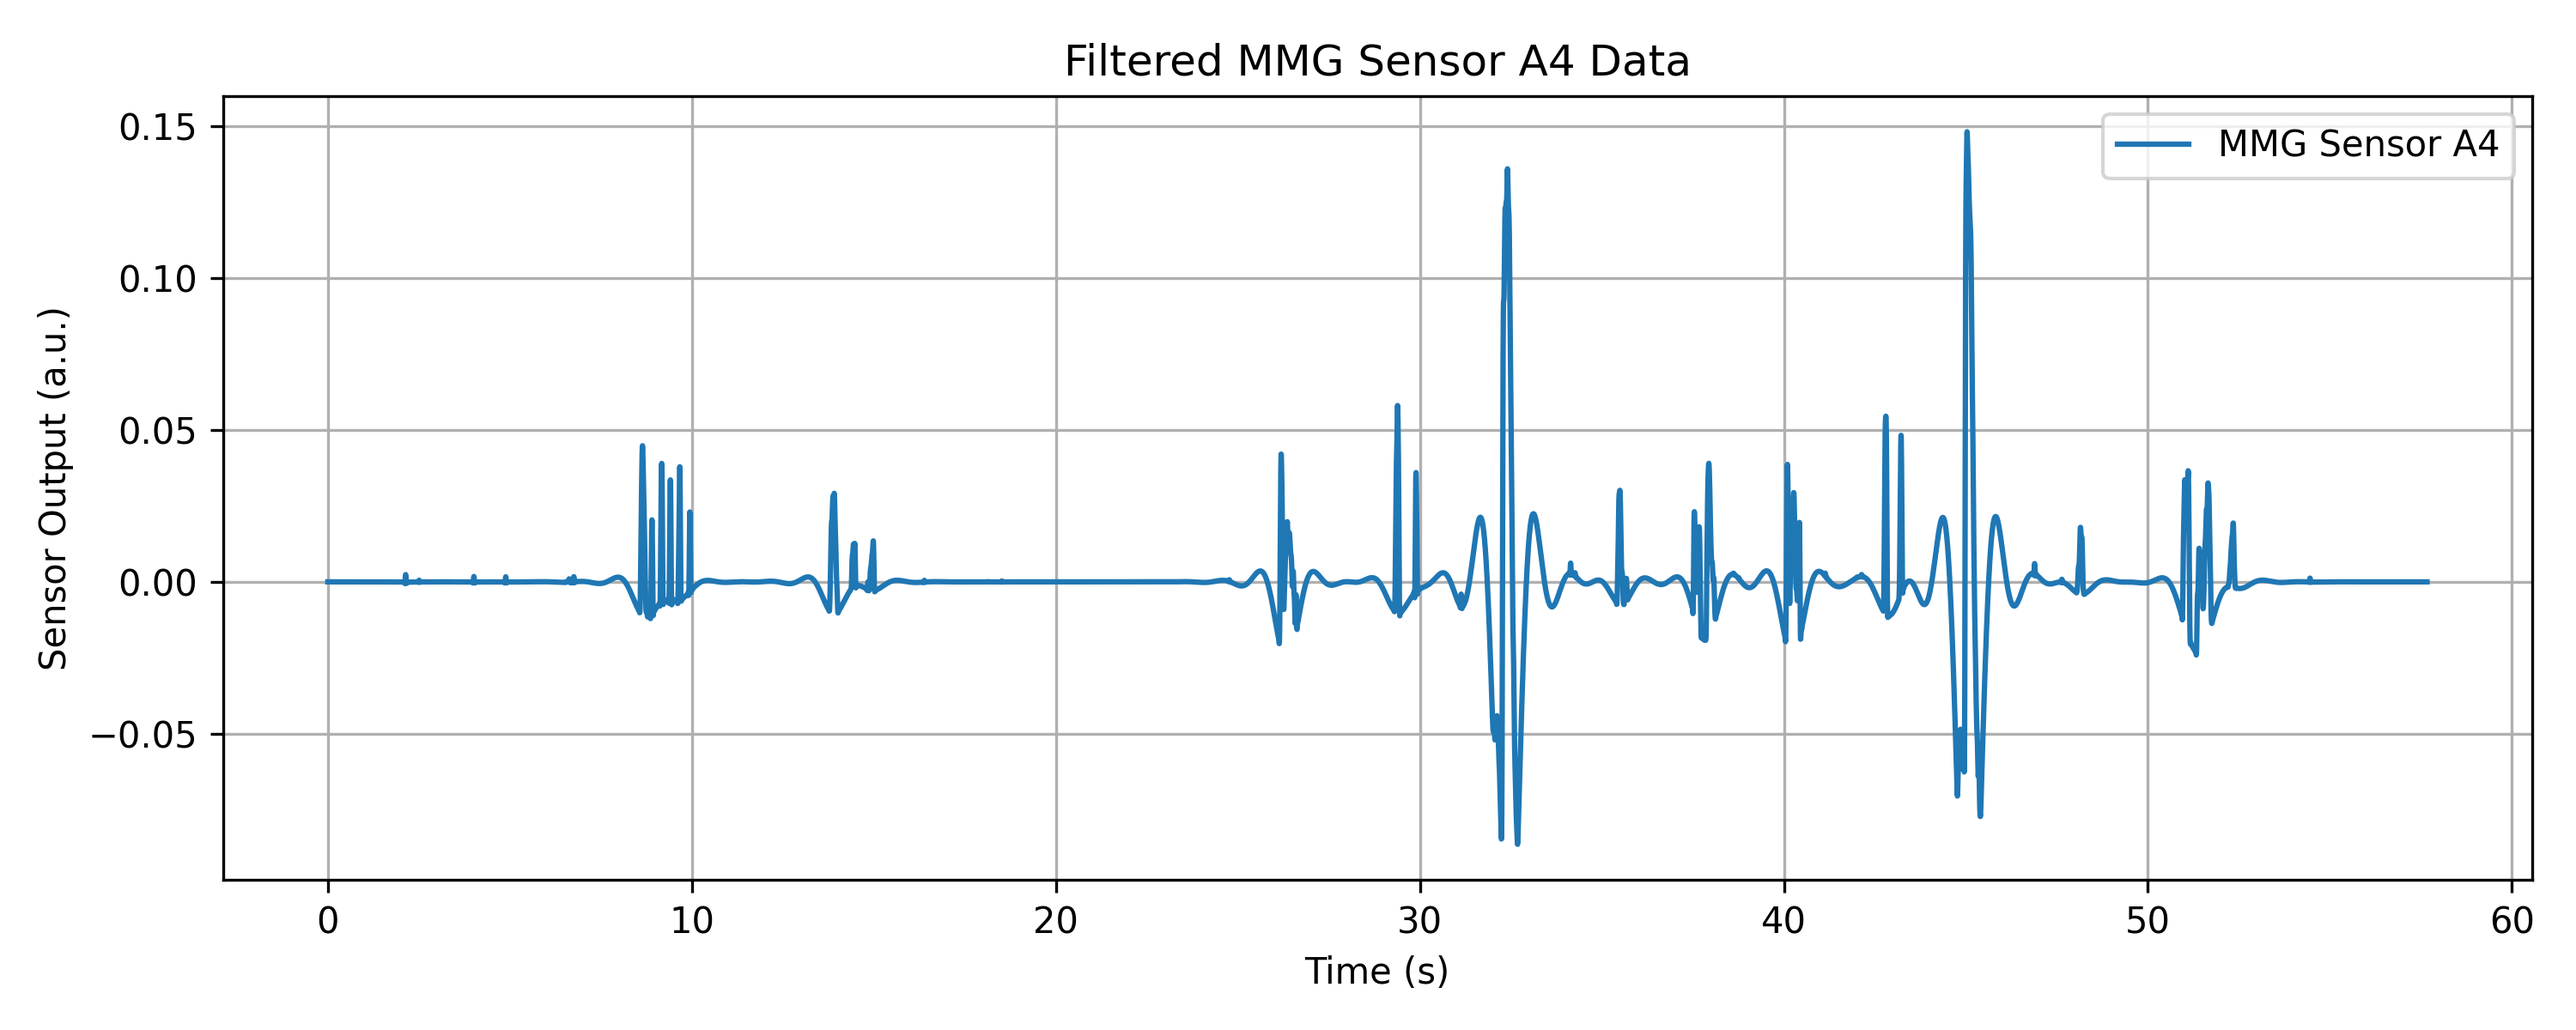
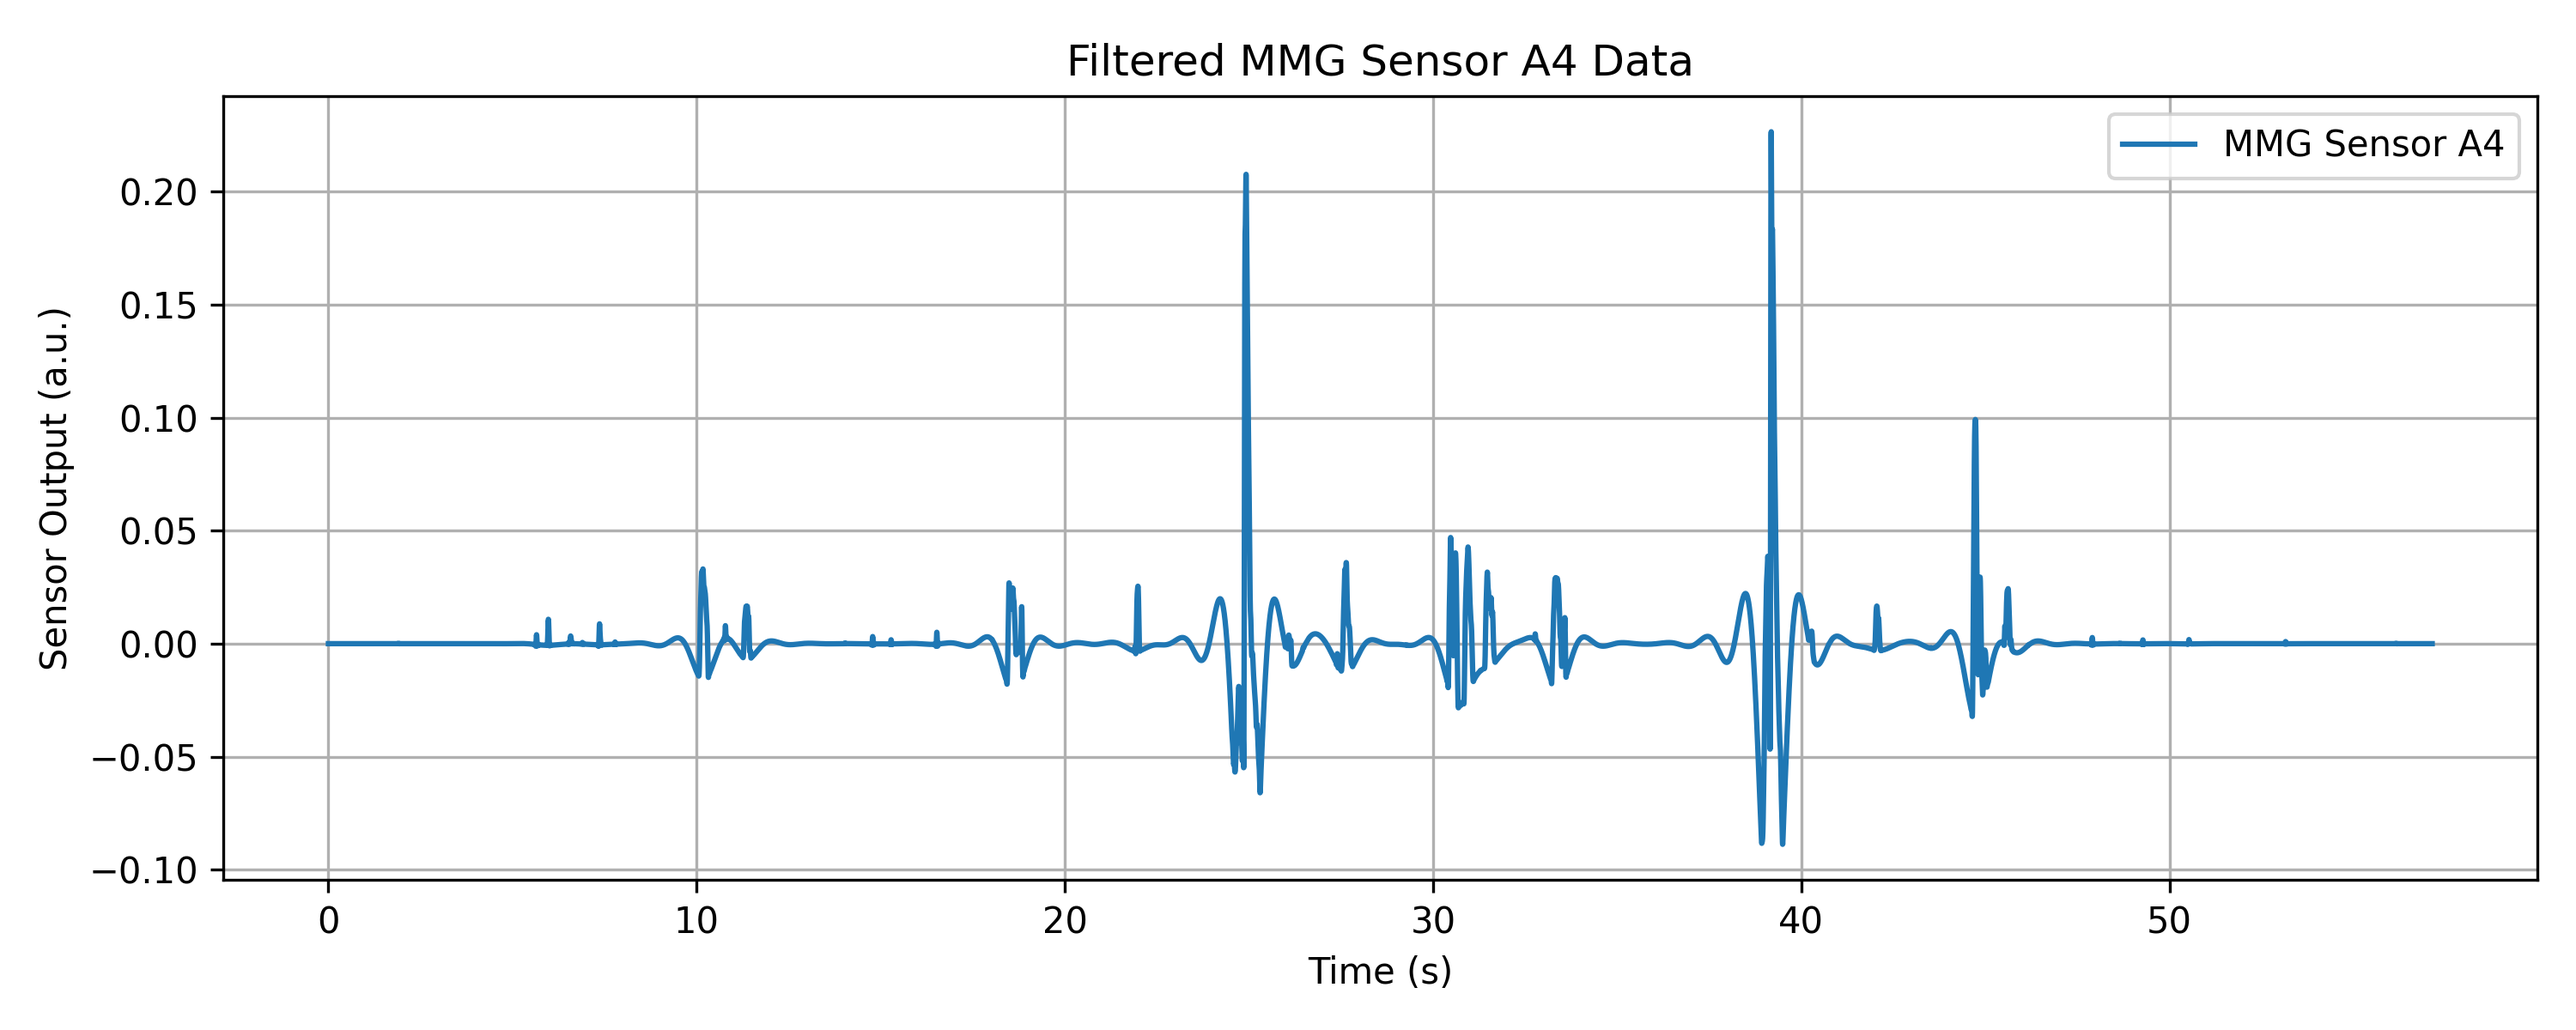
update head movement

diff --git a/Data_visualization/head_movement.py b/Data_visualization/head_movement.py
@@ -22,40 +22,63 @@ def detect_head_movement(gesture_window_data):
     pitch_data = gesture_window_data["pitch"]
     yaw_data = gesture_window_data["yaw"]
 
+    # Initialize crossing variables
+    pitch_cross_low = []
+    pitch_cross_high = []
+    yaw_cross_low = []
+    yaw_cross_high = []
+
     # 1. Detect Front Head Movement
     if np.all(roll_data < 0.1) and np.all(pitch_data < 0.2) and np.all(yaw_data < 0.1):
         return 0  # Front
 
     # 2. Detect Left Head Movement
-    if np.any(roll_data >= 0.03):  # Roll condition
+    elif np.any(roll_data >= 0.025):  # Roll condition
         # Check the pitch condition
-        pitch_cross_low = np.where(pitch_data <= -0.4)[0]  # Indices where pitch is <= -0.4
+        pitch_cross_low = np.where(pitch_data <= -0.2)[0]  # Indices where pitch is <= -0.2
+        yaw_cross_high = np.where(yaw_data >= 0.08)[0]      # Indices where yaw is >= 0.08
+
         if len(pitch_cross_low) > 0:
-            pitch_cross_high = np.where(pitch_data[pitch_cross_low[0]:] >= 0.4)[0]  # After low, check for high
+            # Check if pitch goes back up after going low
+            pitch_cross_high = np.where(pitch_data[pitch_cross_low[0]:] >= 0.2)[0]
             if len(pitch_cross_high) > 0:
-                # Check the yaw condition
-                yaw_cross_high = np.where(yaw_data >= 0.1)[0]  # Indices where yaw is >= 0.1
-                if len(yaw_cross_high) > 0:
-                    yaw_cross_low = np.where(yaw_data[yaw_cross_high[0]:] <= -0.1)[0]  # After high, check for low
-                    if len(yaw_cross_low) > 0:
-                        return 1  # Left
+                return 1  # Left, Roll + Pitch conditions met
+
+        if len(yaw_cross_high) > 0:
+            # Check if yaw goes back down after going high
+            yaw_cross_low = np.where(yaw_data[yaw_cross_high[0]:] <= -0.08)[0]
+            if len(yaw_cross_low) > 0:
+                return 1  # Left, Roll + Yaw conditions met
+
+    # Check if two out of (pitch and yaw) are met, without requiring roll
+    if len(pitch_cross_low) > 0 and len(yaw_cross_high) > 0:
+        return 1  # Left, Pitch + Yaw conditions met
 
     # 3. Detect Right Head Movement
-    if np.any(roll_data <= -0.03):  # Roll condition
+    elif np.any(roll_data <= -0.025):  # Roll condition
         # Check the pitch condition
-        pitch_cross_high = np.where(pitch_data >= 0.4)[0]  # Indices where pitch is >= 0.4
+        pitch_cross_high = np.where(pitch_data >= 0.2)[0]  # Indices where pitch is >= 0.2
+        yaw_cross_low = np.where(yaw_data <= -0.08)[0]     # Indices where yaw is <= -0.08
+
         if len(pitch_cross_high) > 0:
-            pitch_cross_low = np.where(pitch_data[pitch_cross_high[0]:] <= -0.4)[0]  # After high, check for low
+            # Check if pitch goes back down after going high
+            pitch_cross_low = np.where(pitch_data[pitch_cross_high[0]:] <= -0.2)[0]
             if len(pitch_cross_low) > 0:
-                # Check the yaw condition
-                yaw_cross_low = np.where(yaw_data <= -0.1)[0]  # Indices where yaw is <= -0.1
-                if len(yaw_cross_low) > 0:
-                    yaw_cross_high = np.where(yaw_data[yaw_cross_low[0]:] >= 0.1)[0]  # After low, check for high
-                    if len(yaw_cross_high) > 0:
-                        return 2  # Right
+                return 2  # Right, Roll + Pitch conditions met
+
+        if len(yaw_cross_low) > 0:
+            # Check if yaw goes back up after going low
+            yaw_cross_high = np.where(yaw_data[yaw_cross_low[0]:] >= 0.08)[0]
+            if len(yaw_cross_high) > 0:
+                return 2  # Right, Roll + Yaw conditions met
+
+    # Check if two out of (pitch and yaw) are met, without requiring roll
+    if len(pitch_cross_high) > 0 and len(yaw_cross_low) > 0:
+        return 2  # Right, Pitch + Yaw conditions met
 
     # No movement detected
     return None
+
 
 
 def extract_gesture_data(filtered_data_dict, start_time, end_time, fs):

diff --git a/Data_visualization/config.py b/Data_visualization/config.py
@@ -5,8 +5,8 @@ def get_daq_file_paths():
     Fetch DAQ file paths from environment variables or configuration files.
     """
     return [
-        os.getenv("DAQ_FILE_1", "./Data_files/DAQ1_IMU_Data14.dat"),
-        os.getenv("DAQ_FILE_2", "./Data_files/DAQ2_Data14.dat")
+        os.getenv("DAQ_FILE_1", "./Data_files/DAQ1_IMU_Data04.dat"),
+        os.getenv("DAQ_FILE_2", "./Data_files/DAQ2_Data04.dat")
     ]
 
 def get_fs_MMG_sensor():
@@ -24,4 +24,4 @@ def get_excel_file_path():
     """
     Fetch the path of the Excel file containing gesture data.
     """
-    return os.getenv("EXCEL_FILE_PATH", "Data_files/modified_Sequential_Play_14.xlsx")
+    return os.getenv("EXCEL_FILE_PATH", "Data_files/modified_Sequential_Play_4.xlsx")
